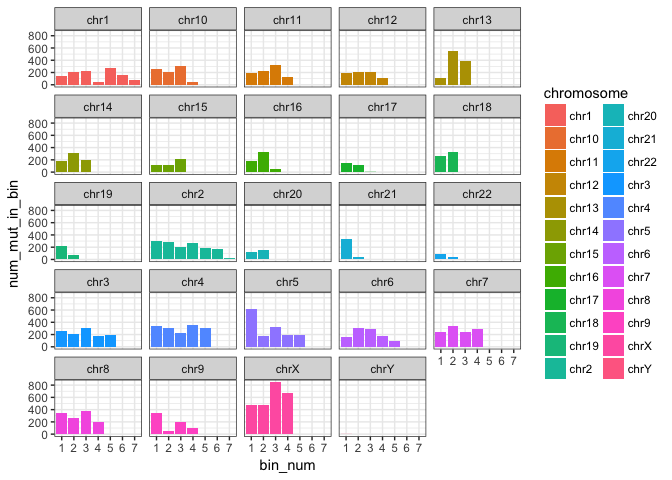
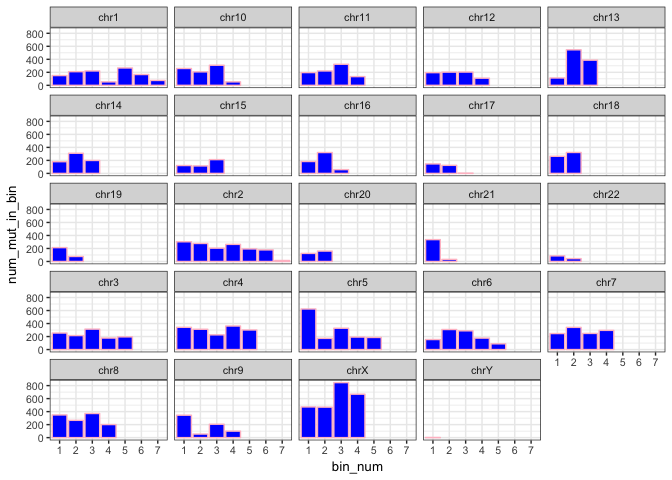
renamed plot files

diff --git a/tmb.md b/tmb.md
@@ -1,7 +1,7 @@
 ---
-title: "Tumour Mutational Burden"
+title: "Tumour Mutational Burden (TMB)"
 author: "Sehrish Kanwal"
-date: "Thu 2018-Apr-05"
+date: "Tue 2018-Apr-10"
 output: 
   html_document: 
     keep_md: yes
@@ -10,6 +10,7 @@ editor_options:
 ---
 
 
+The report describes the work done for analysing and understanding TMB on one of the ensemble somatic variant calls (`/data/cephfs/punim0010/data/Results/Patients/CUP_SC932/final/umccrised/cup_tissue/somatic/ensemble-pon-pass.vcf.gz`). Many thanks to Peter for providing specific pointers and useful explanation on how to tackle various issues in R.
 
 Required packages
 
@@ -68,6 +69,37 @@ Declare bin size (in bases)
 bin_size <- 40000000
 ```
 
+
+
+```r
+chrom <- vcfR::getCHROM(vcf)
+x <- table(chrom)
+x
+## chrom
+##    1   10   11   12   13   14   15   16   17   18   19    2   20   21   22 
+## 1142  828  875  712 1046  689  448  562  274  585  290 1434  284  368  130 
+##    3    4    5    6    7    8    9    X    Y 
+## 1155 1543 1502 1014 1130 1187  706 2455    2
+# How can I sort not alphanumerically
+# Use gtools::mixedorder to get the ordered indices (or mixedsort to sort them)
+sorted_ind <- gtools::mixedorder(names(x))
+sorted_ind
+##  [1]  1 12 16 17 18 19 20 21 22  2  3  4  5  6  7  8  9 10 11 13 14 15 23
+## [24] 24
+x <- x[sorted_ind]
+x
+## chrom
+##    1    2    3    4    5    6    7    8    9   10   11   12   13   14   15 
+## 1142 1434 1155 1543 1502 1014 1130 1187  706  828  875  712 1046  689  448 
+##   16   17   18   19   20   21   22    X    Y 
+##  562  274  585  290  284  368  130 2455    2
+chr_fac <- factor(names(x), levels = gtools::mixedsort(names(x)))
+chr_fac
+##  [1] 1  2  3  4  5  6  7  8  9  10 11 12 13 14 15 16 17 18 19 20 21 22 X 
+## [24] Y 
+## 24 Levels: 1 2 3 4 5 6 7 8 9 10 11 12 13 14 15 16 17 18 19 20 21 22 ... Y
+```
+
 Get chromosome and filter vcf for that chromosome
 
 
@@ -93,9 +125,13 @@ Count mutations in a chromosome
 
 
 ```r
-count_mut_in_chr <- function(chr_pos, bin_vec) {
+count_mut_per_bin <- function(chr_pos, bin_vec) {
   x <- cbind(chr_pos$pos, findInterval(chr_pos$pos, bin_vec))
-  mean(table(x[, 2]))
+  tab <- table(x[, 2])
+  df <- data.frame(bin_num = names(tab),
+                   num_mut_in_bin = c(unname(tab)),
+                   stringsAsFactors = FALSE)
+  df
 }
 ```
 
@@ -105,7 +141,7 @@ Apply same function to all chromosomes. This gives a numerical vector containing
 ```r
 results <- vector("numeric", length = length(chr_names))
 for (i in 1:length(chr_names)) {
-  results[i] <- count_mut_in_chr(filter_chr(chr_names[i], vcf), bin_chr(chr_lengths, chr_names[i], bin_size))
+  results[i] <- mean(count_mut_per_bin(filter_chr(chr_names[i], vcf), bin_chr(chr_lengths, chr_names[i], bin_size))[, 2])
 }
 print(results)
 ##  [1] 163.14286 204.85714 231.00000 308.60000 300.40000 202.80000 282.50000
@@ -114,37 +150,105 @@ print(results)
 ## [22]  65.00000 613.75000   2.00000
 ```
 
+
+* Calculate number of mutations per bin for chromosomes 1, 2, 11:
+
+
+```r
+results2 <- vector("list", length = length(chr_names))
+for (i in 1:length(chr_names)) {
+  results2[[i]] <- count_mut_per_bin(filter_chr(chr_names[i], vcf), bin_chr(chr_lengths, chr_names[i], bin_size))
+}
+```
+
+* Turn a list that contains X data.frames to a single data.frame
+
+
+```r
+names(results2) <- paste("chr", chr_names, sep = "")
+str(results2)
+## List of 24
+##  $ chr1 :'data.frame':	7 obs. of  2 variables:
+##   ..$ bin_num       : chr [1:7] "1" "2" "3" "4" ...
+##   ..$ num_mut_in_bin: int [1:7] 150 210 221 53 267 166 75
+##  $ chr2 :'data.frame':	7 obs. of  2 variables:
+##   ..$ bin_num       : chr [1:7] "1" "2" "3" "4" ...
+##   ..$ num_mut_in_bin: int [1:7] 303 277 205 263 193 178 15
+##  $ chr3 :'data.frame':	5 obs. of  2 variables:
+##   ..$ bin_num       : chr [1:5] "1" "2" "3" "4" ...
+##   ..$ num_mut_in_bin: int [1:5] 254 215 314 177 195
+##  $ chr4 :'data.frame':	5 obs. of  2 variables:
+##   ..$ bin_num       : chr [1:5] "1" "2" "3" "4" ...
+##   ..$ num_mut_in_bin: int [1:5] 342 312 226 362 301
+##  $ chr5 :'data.frame':	5 obs. of  2 variables:
+##   ..$ bin_num       : chr [1:5] "1" "2" "3" "4" ...
+##   ..$ num_mut_in_bin: int [1:5] 624 172 328 192 186
+##  $ chr6 :'data.frame':	5 obs. of  2 variables:
+##   ..$ bin_num       : chr [1:5] "1" "2" "3" "4" ...
+##   ..$ num_mut_in_bin: int [1:5] 154 308 288 176 88
+##  $ chr7 :'data.frame':	4 obs. of  2 variables:
+##   ..$ bin_num       : chr [1:4] "1" "2" "3" "4"
+##   ..$ num_mut_in_bin: int [1:4] 246 341 248 295
+##  $ chr8 :'data.frame':	4 obs. of  2 variables:
+##   ..$ bin_num       : chr [1:4] "1" "2" "3" "4"
+##   ..$ num_mut_in_bin: int [1:4] 349 266 371 201
+##  $ chr9 :'data.frame':	4 obs. of  2 variables:
+##   ..$ bin_num       : chr [1:4] "1" "2" "3" "4"
+##   ..$ num_mut_in_bin: int [1:4] 345 55 206 100
+##  $ chr10:'data.frame':	4 obs. of  2 variables:
+##   ..$ bin_num       : chr [1:4] "1" "2" "3" "4"
+##   ..$ num_mut_in_bin: int [1:4] 259 207 309 53
+##  $ chr11:'data.frame':	4 obs. of  2 variables:
+##   ..$ bin_num       : chr [1:4] "1" "2" "3" "4"
+##   ..$ num_mut_in_bin: int [1:4] 196 221 324 134
+##  $ chr12:'data.frame':	4 obs. of  2 variables:
+##   ..$ bin_num       : chr [1:4] "1" "2" "3" "4"
+##   ..$ num_mut_in_bin: int [1:4] 195 203 204 110
+##  $ chr13:'data.frame':	3 obs. of  2 variables:
+##   ..$ bin_num       : chr [1:3] "1" "2" "3"
+##   ..$ num_mut_in_bin: int [1:3] 113 546 387
+##  $ chr14:'data.frame':	3 obs. of  2 variables:
+##   ..$ bin_num       : chr [1:3] "1" "2" "3"
+##   ..$ num_mut_in_bin: int [1:3] 180 310 199
+##  $ chr15:'data.frame':	3 obs. of  2 variables:
+##   ..$ bin_num       : chr [1:3] "1" "2" "3"
+##   ..$ num_mut_in_bin: int [1:3] 121 115 212
+##  $ chr16:'data.frame':	3 obs. of  2 variables:
+##   ..$ bin_num       : chr [1:3] "1" "2" "3"
+##   ..$ num_mut_in_bin: int [1:3] 183 321 58
+##  $ chr17:'data.frame':	3 obs. of  2 variables:
+##   ..$ bin_num       : chr [1:3] "1" "2" "3"
+##   ..$ num_mut_in_bin: int [1:3] 146 124 4
+##  $ chr18:'data.frame':	2 obs. of  2 variables:
+##   ..$ bin_num       : chr [1:2] "1" "2"
+##   ..$ num_mut_in_bin: int [1:2] 263 322
+##  $ chr19:'data.frame':	2 obs. of  2 variables:
+##   ..$ bin_num       : chr [1:2] "1" "2"
+##   ..$ num_mut_in_bin: int [1:2] 213 77
+##  $ chr20:'data.frame':	2 obs. of  2 variables:
+##   ..$ bin_num       : chr [1:2] "1" "2"
+##   ..$ num_mut_in_bin: int [1:2] 124 160
+##  $ chr21:'data.frame':	2 obs. of  2 variables:
+##   ..$ bin_num       : chr [1:2] "1" "2"
+##   ..$ num_mut_in_bin: int [1:2] 336 32
+##  $ chr22:'data.frame':	2 obs. of  2 variables:
+##   ..$ bin_num       : chr [1:2] "1" "2"
+##   ..$ num_mut_in_bin: int [1:2] 86 44
+##  $ chrX :'data.frame':	4 obs. of  2 variables:
+##   ..$ bin_num       : chr [1:4] "1" "2" "3" "4"
+##   ..$ num_mut_in_bin: int [1:4] 472 469 846 668
+##  $ chrY :'data.frame':	1 obs. of  2 variables:
+##   ..$ bin_num       : chr "1"
+##   ..$ num_mut_in_bin: int 2
+binding1 <- do.call("rbind", results2) # this sucks
+binding2 <- dplyr::bind_rows(results2, .id = "chromosome")# implement the dplyr::bind_rows way. Research what the '.id' arg does.
+```
+
+
 Plotting the total number of variants across all chromosomes
 
 
 ```r
-chrom <- vcfR::getCHROM(vcf)
-x <- table(chrom)
-x
-## chrom
-##    1   10   11   12   13   14   15   16   17   18   19    2   20   21   22 
-## 1142  828  875  712 1046  689  448  562  274  585  290 1434  284  368  130 
-##    3    4    5    6    7    8    9    X    Y 
-## 1155 1543 1502 1014 1130 1187  706 2455    2
-
-# How can I sort not alphanumerically
-# Use gtools::mixedorder to get the ordered indices (or mixedsort to sort them)
-sorted_ind <- gtools::mixedorder(names(x))
-sorted_ind
-##  [1]  1 12 16 17 18 19 20 21 22  2  3  4  5  6  7  8  9 10 11 13 14 15 23
-## [24] 24
-x <- x[sorted_ind]
-x
-## chrom
-##    1    2    3    4    5    6    7    8    9   10   11   12   13   14   15 
-## 1142 1434 1155 1543 1502 1014 1130 1187  706  828  875  712 1046  689  448 
-##   16   17   18   19   20   21   22    X    Y 
-##  562  274  585  290  284  368  130 2455    2
-chr_fac <- factor(names(x), levels = gtools::mixedsort(names(x)))
-chr_fac
-##  [1] 1  2  3  4  5  6  7  8  9  10 11 12 13 14 15 16 17 18 19 20 21 22 X 
-## [24] Y 
-## 24 Levels: 1 2 3 4 5 6 7 8 9 10 11 12 13 14 15 16 17 18 19 20 21 22 ... Y
 df <- data.frame(chr = chr_fac, mut_num = c(unname(x)))
 df
 ##    chr mut_num
@@ -177,7 +281,7 @@ ggplot(df, aes(x = chr, y = mut_num)) +
   theme_bw()
 ```
 
-![](tmb_files/figure-html/unnamed-chunk-9-1.png)<!-- -->
+![](tmb_files/figure-html/total_variants_per_chrom-1.png)<!-- -->
 
 Plotting the mean of variants across all bins in a chromosome i.e. results 
 
@@ -189,24 +293,33 @@ ggplot(df, aes(x = chr, y = mut_num)) +
   theme_bw()
 ```
 
-![](tmb_files/figure-html/unnamed-chunk-10-1.png)<!-- -->
+![](tmb_files/figure-html/mean_of_varinats_per_bin_per_chrom-1.png)<!-- -->
+
+Plotting and comparing mutations across bins in all chromosomes
 
 
+```r
+df <- binding2
+head(df)
+##   chromosome bin_num num_mut_in_bin
+## 1       chr1       1            150
+## 2       chr1       2            210
+## 3       chr1       3            221
+## 4       chr1       4             53
+## 5       chr1       5            267
+## 6       chr1       6            166
 
+bp <- ggplot(df, aes(x = bin_num, y = num_mut_in_bin)) +
+  geom_bar(stat = "identity", fill="blue", colour = "pink") +
+  facet_wrap(~chromosome) +
+  theme_bw(base_size = 10)
+bp + guides(fill=FALSE)
+```
 
+![](tmb_files/figure-html/mut_per_bin_per_chrom-1.png)<!-- -->
 
+**TO DO:** 
 
-
-
-
-
-
-
-
-
-
-
-
-
+Extract chromosome from the binding2 and use the top function with mixedorder and mixedsort to arrange chromosomes (1-22,X, Y) in the last plot (analyse it).
 
 
